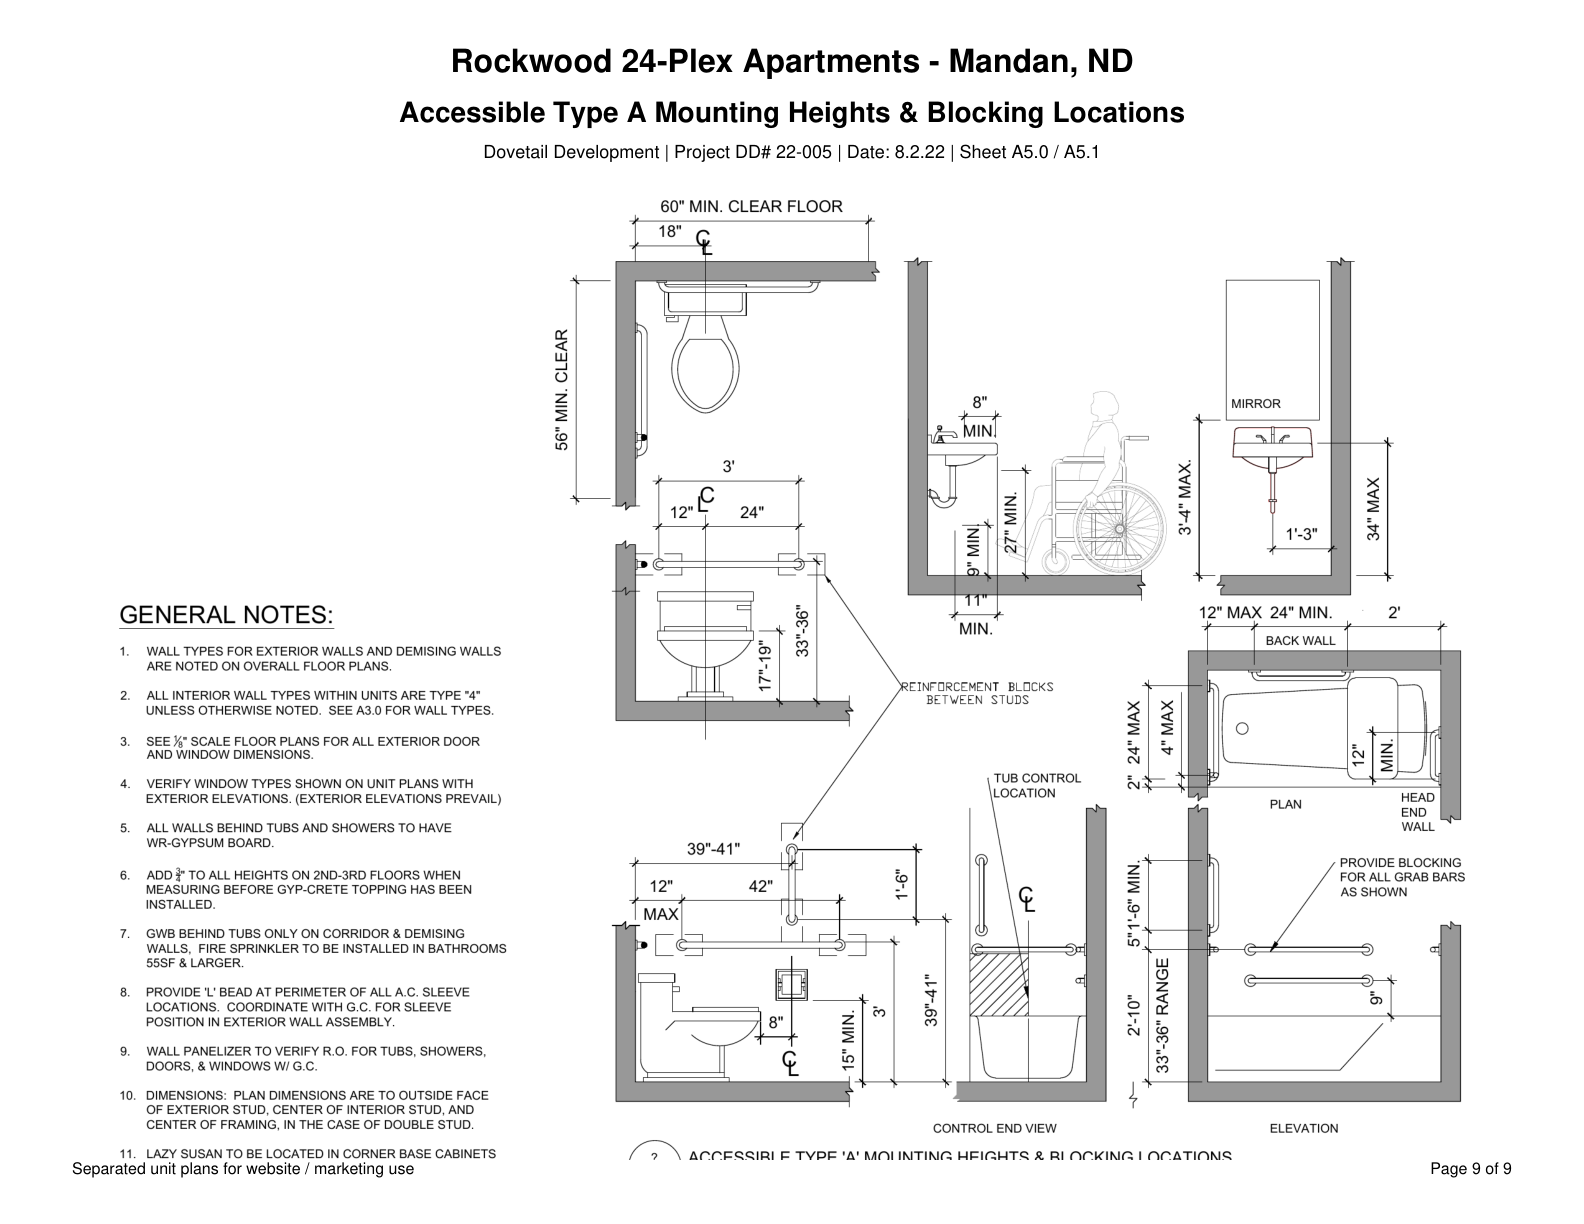
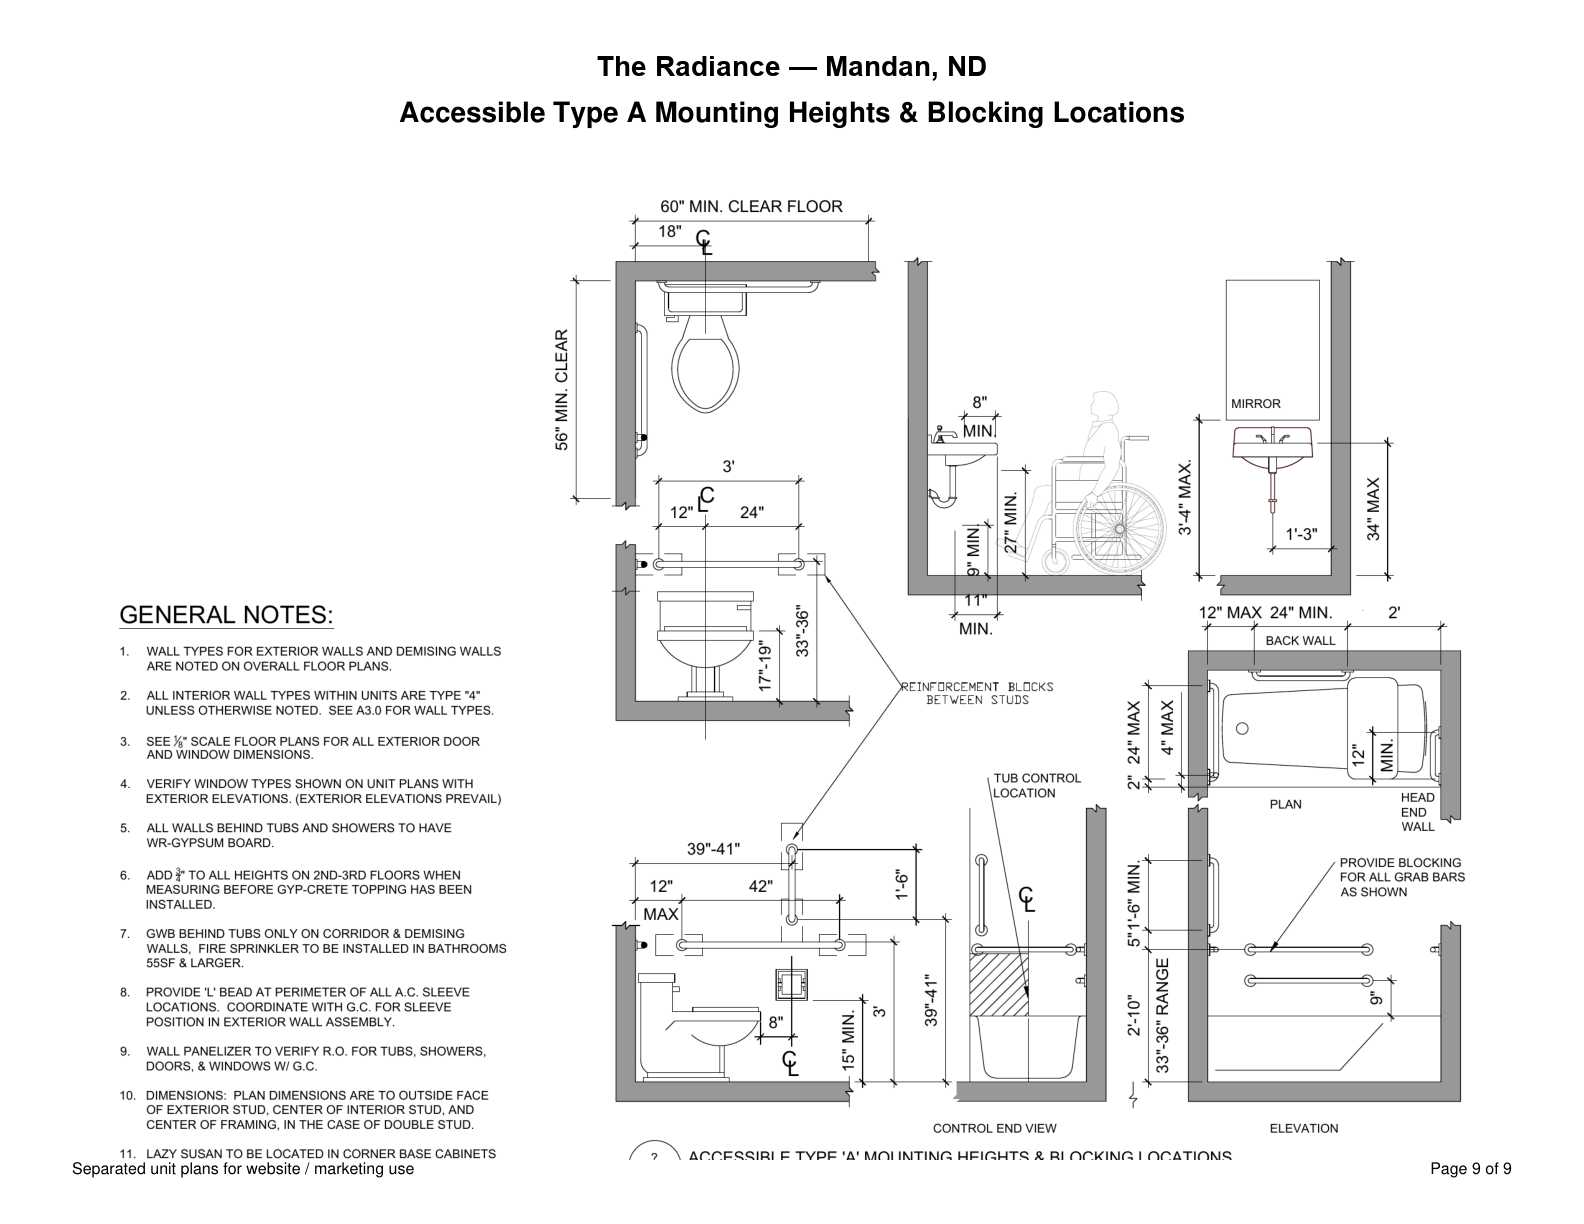
fix: floor-plan headers Rockwood 24-Plex -> The Radiance; drop Dovetail line; clean ROCKWOOD24 LLC branding

Changed region(s): [[0.2784, 0.031, 0.7115, 0.0621]]

diff --git a/index.html b/index.html
@@ -5,8 +5,8 @@
 <meta name="viewport" content="width=device-width, initial-scale=1.0">
 <title>The Radiance — 24-Unit Apartments for Rent in Mandan, ND</title>
 <meta name="description" content="The Radiance at 3280 12th Ave NW, Mandan ND — 24 apartment homes for rent (1, 2 &amp; 3 bedroom). Floor plans, amenities, and leasing. Call 701-223-6676 or visit TheRadiance24.com.">
-<meta name="keywords" content="apartments for rent Mandan ND, Mandan ND apartments, 1 bedroom Mandan, 2 bedroom Mandan, 3 bedroom Mandan, The Radiance apartments, ROCKWOOD24 LLC">
-<meta name="author" content="The Radiance — ROCKWOOD24 LLC">
+<meta name="keywords" content="apartments for rent Mandan ND, Mandan ND apartments, 1 bedroom Mandan, 2 bedroom Mandan, 3 bedroom Mandan, The Radiance apartments">
+<meta name="author" content="The Radiance">
 <meta name="robots" content="index, follow, max-image-preview:large">
 <meta name="theme-color" content="#0c1a2b">
 <link rel="icon" href="img/logo.png" type="image/png">
@@ -59,7 +59,7 @@
     { "@type": "LocationFeatureSpecification", "name": "High-speed internet ready", "value": true }
   ],
   "allowsDogs": true,
-  "owner": { "@type": "Organization", "name": "ROCKWOOD24 LLC" }
+  "owner": { "@type": "Organization", "name": "The Radiance" }
 }
 </script>
 
@@ -167,7 +167,7 @@
       <img src="img/exterior/radiance_outside.jpeg" alt="The Radiance apartment building exterior at 3280 12th Ave NW, Mandan ND" loading="lazy">
       <figcaption>The Radiance — 3280 12th Ave NW, Mandan ND</figcaption>
     </figure>
-    <p class="plans__source muted">24 units · 3 floors · 8 per floor. Layouts from the project's unit-plan set (ROCKWOOD 24-PLEX, Dovetail Development). See every plan in the gallery below.</p>
+    <p class="plans__source muted">24 units · 3 floors · 8 per floor. Layouts from The Radiance unit-plan set. See every plan in the gallery below.</p>
   </section>
 
   <!-- FLOOR PLAN GALLERY -->
@@ -273,7 +273,7 @@
     <span>© <span id="year"></span> The Radiance · 3280 12th Ave NW, Mandan ND</span>
     <span class="muted">701-223-6676 · ppm@bis.midco.net</span>
     <span class="muted">TheRadiance24.com</span>
-    <span class="muted">A ROCKWOOD24 LLC community</span>
+    <span class="muted">A The Radiance community</span>
   </div>
 </footer>
 
